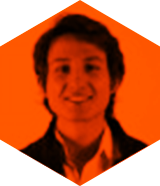
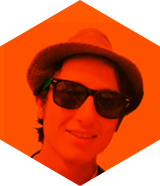
added mentor pic, apply now button, and adjusted responsive layout accordingly

diff --git a/app/assets/stylesheets/pages.scss b/app/assets/stylesheets/pages.scss
@@ -138,6 +138,7 @@
     }
   }
 
+
   .main .sn {
     text-align: center;
     margin-top: 30px;
@@ -619,7 +620,9 @@
     background: rgba(0, 0, 0, 0.5);
     color: #fff;
     padding: 35px 20px;
-    margin-top: 15px;
+    @media (max-width: $screen-lg-min) {
+      padding: 35px 5px;
+    }
     @media (max-width: $screen-sm-min) {
       font-size: 18px;
     }
@@ -635,12 +638,15 @@
     }
   }
   .know-more {
-    font-size: 18px;
+    font-size: 16px;
     text-align: center;
     color: #fff;
-    font-weight: 700;
+    font-weight: 400;
     margin-top: 12px;
     display: inline-block;
+    @media (max-width: $screen-lg-min) {
+      display: none;
+    }
     .icon {
       display: block;
       margin-top: 5px;
@@ -657,7 +663,7 @@
     left: 0;
     background: rgba(0, 0, 0, 0.5);
     padding: 15px 0;
-    @media (max-width: 400px) {
+    @media (max-width: 450px) {
         display: none;
     }
     ul {
@@ -1097,6 +1103,16 @@
     font-size: 18px;
     display: block;
     margin: 0 auto;
+    &.apply {
+      background: #fff;
+      margin-top: 30px;
+      margin-bottom: 20px;
+      border-color: #fff;
+      font-weight: 400;
+      @media (max-width: $screen-lg-min) {
+        margin-top: 10px;
+      }
+    }
   }
 
   footer {
